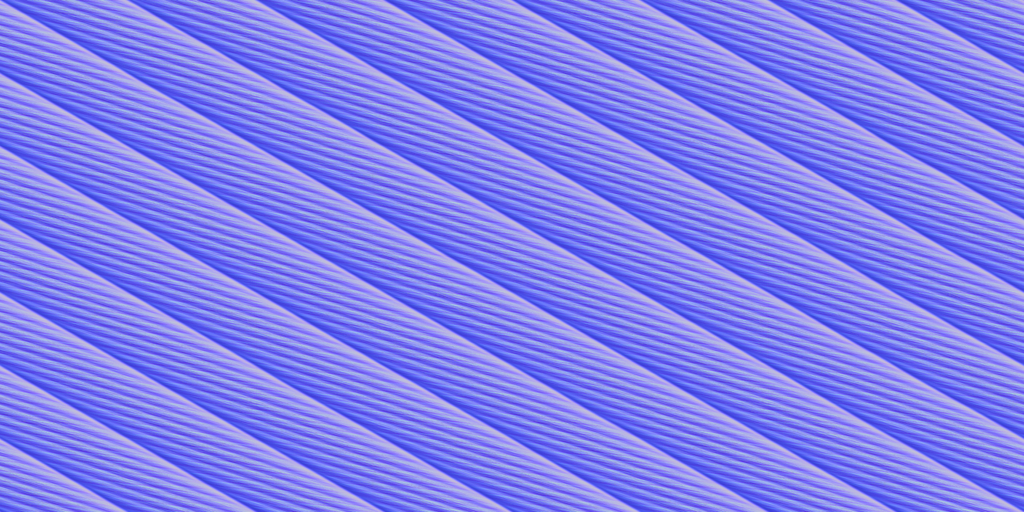
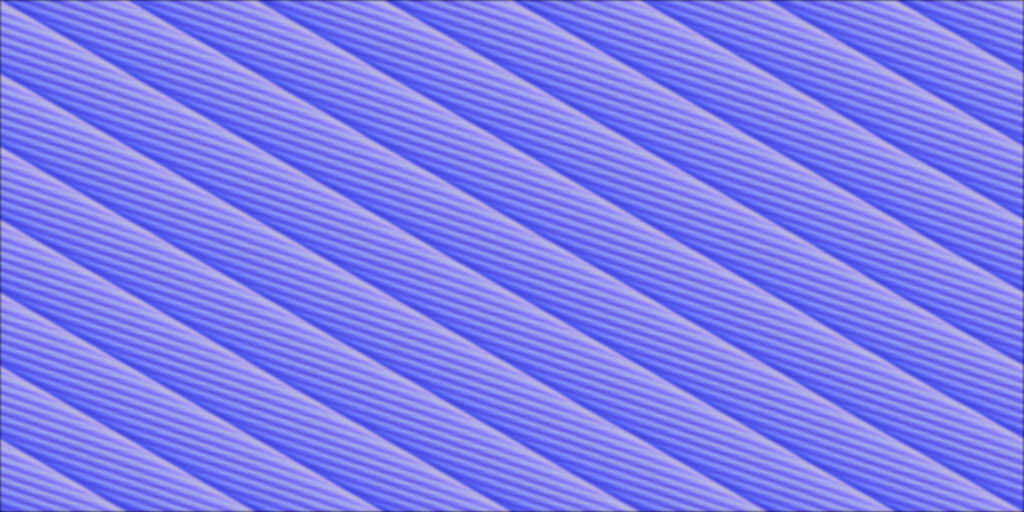
Rebuild the span rope the way the reference actually does it
Pixel-level measurement of the reference strand settled it: the twist is
TEXTURE on a smooth cylinder, not geometry (his silhouette is clean; our
3-ply geometry aliased into ragged fuzz at 720p), twist pitch is ~3.5
diameters at a shallow ~25 deg (ours was a steep 1.1x screw thread), and
the colour is pale golden straw (ours was dark manila).

- Spans: smooth swept cylinder + procedural diagonal-band twist tile with
  matched crown/groove colours, soft normal map, pitch 3.5 x diameter
- Key light moved to the camera side (the rope was backlit the whole
  time — the main reason it read dark bronze in every earlier version)
- Material rgba (1,1,1,1): MuJoCo's default 0.5 grey multiplier
- Flyaway tamed (fewer/shorter/thinner); Rope001 regraded to blonde

diff --git a/src/mjlab_microduck/robot/tug_of_war.py b/src/mjlab_microduck/robot/tug_of_war.py
@@ -130,11 +130,63 @@ SAG_PER_SLACK = 0.6       # parabola depth per metre of slack
 SAG_MAX = 0.045
 
 
-# Hemp rope PBR maps: ambientCG Rope001 (CC0, https://ambientcg.com/view?id=Rope001),
-# natural twisted fibre — the same look as the reference tug-of-war video.
+# Rope texture. Spans use our procedural twist tile (soft 3-band diagonal
+# helix, colours measured off the reference video's strand); coils use
+# ambientCG Rope001 (CC0, https://ambientcg.com/view?id=Rope001).
 _ROPE_COLOR = _ROBOT_DIR / "assets" / "rope_hemp_color.png"
 _ROPE_NORMAL = _ROBOT_DIR / "assets" / "rope_hemp_normal.png"
 _ROPE_ROUGHNESS = _ROBOT_DIR / "assets" / "rope_hemp_roughness.png"
+_TWIST_CROWN = np.array([0.93, 0.85, 0.66])
+_TWIST_GROOVE = np.array([0.72, 0.62, 0.44])
+
+
+def _twist_texture(size: int = 256, bands: int = 3) -> tuple[bytes, bytes]:
+    """Seamless diagonal-band twist tile + matching normal map.
+
+    On a cylinder's unwrapped UV a helix is a diagonal line; the tile repeats
+    `bands` soft ridges on the 45-degree diagonal so the rope reads as long-
+    pitch twisted strands, with clean silky shading (no fibre speckle —
+    minification noise was what made previous versions look ragged)."""
+    yy, xx = np.mgrid[0:size, 0:size].astype(np.float64)
+    phase = ((xx + yy) / size * bands) % 1.0
+    ridge = 0.5 + 0.5 * np.cos(2.0 * np.pi * phase)          # 1 crown, 0 groove
+    shade = 0.87 + 0.13 * ridge                              # gentle contrast
+    fibre = 0.015 * np.sin(xx * 0.9) + 0.01 * np.sin(yy * 2.3 + xx * 0.2)
+    shade = np.clip(shade + fibre, 0, 1)
+    rgb = shade[..., None] * (_TWIST_GROOVE + (_TWIST_CROWN - _TWIST_GROOVE) * ridge[..., None])
+    rgb = np.clip(rgb * 255, 0, 255).astype(np.uint8)
+
+    eps = 1.0 / size
+    dhdx = (np.roll(ridge, -1, 1) - np.roll(ridge, 1, 1)) / (2 * eps)
+    dhdy = (np.roll(ridge, -1, 0) - np.roll(ridge, 1, 0)) / (2 * eps)
+    strength = 0.002
+    nx, ny = -dhdx * strength, -dhdy * strength
+    nz = np.ones_like(nx)
+    norm = np.sqrt(nx**2 + ny**2 + nz**2)
+    nrm = np.stack([(nx / norm + 1) / 2, (ny / norm + 1) / 2, (nz / norm + 1) / 2], axis=-1)
+    return rgb.tobytes(), (nrm * 255).astype(np.uint8).tobytes()
+
+
+def _add_twist_material(spec: mujoco.MjSpec) -> None:
+    rgb, normal = _twist_texture()
+    tex = spec.add_texture(name="tug_twist_tex")
+    tex.type = mujoco.mjtTexture.mjTEXTURE_2D
+    tex.width, tex.height, tex.nchannel = 256, 256, 3
+    tex.data = rgb
+    ntex = spec.add_texture(name="tug_twist_nrm")
+    ntex.type = mujoco.mjtTexture.mjTEXTURE_2D
+    ntex.width, ntex.height, ntex.nchannel = 256, 256, 3
+    ntex.data = normal
+    mat = spec.add_material(name="tug_twist")
+    mat.rgba = (1.0, 1.0, 1.0, 1.0)   # MuJoCo's default 0.5 grey halves the texture
+    mat.textures[mujoco.mjtTextureRole.mjTEXROLE_RGB] = "tug_twist_tex"
+    mat.textures[mujoco.mjtTextureRole.mjTEXROLE_NORMAL] = "tug_twist_nrm"
+    mat.texrepeat = (1.0, 1.0)
+    mat.texuniform = False
+    mat.specular = 0.6
+    mat.shininess = 0.6
+
+
 
 
 def _add_hemp_material(spec: mujoco.MjSpec) -> None:
@@ -145,10 +197,11 @@ def _add_hemp_material(spec: mujoco.MjSpec) -> None:
         tex.type = mujoco.mjtTexture.mjTEXTURE_2D
         tex.file = str(path)
     mat = spec.add_material(name="tug_hemp")
+    mat.rgba = (1.0, 1.0, 1.0, 1.0)   # MuJoCo's default 0.5 grey halves the texture
     mat.textures[mujoco.mjtTextureRole.mjTEXROLE_RGB] = "tug_hemp_tex"
     mat.textures[mujoco.mjtTextureRole.mjTEXROLE_NORMAL] = "tug_hemp_nrm"
     mat.textures[mujoco.mjtTextureRole.mjTEXROLE_ROUGHNESS] = "tug_hemp_rgh"
-    mat.texrepeat = (12.0, 1.0)
+    mat.texrepeat = (8.0, 1.0)
     mat.texuniform = True
     mat.specular = 0.35
     mat.shininess = 0.4
@@ -275,12 +328,12 @@ def _twisted_tube_mesh(spec: mujoco.MjSpec, name: str,
         yarn_center = ply_center + yarn_center_r * (np.cos(psi) * u2 + np.sin(psi) * np.cross(tangent, u2))
         out_dir = u2 * 0.7 + w * rng.uniform(-0.5, 0.5) + tangent * rng.uniform(-0.4, 0.4)
         out_dir /= np.linalg.norm(out_dir)
-        length = rng.uniform(0.002, 0.005)
+        length = rng.uniform(0.0015, 0.003)
         root = yarn_center + yarn_tube_r * out_dir
         mid = root + out_dir * length * 0.6 + tangent * rng.uniform(-0.001, 0.001)
         tip = root + out_dir * length
         base = len(verts)
-        for point, radius in ((root, 0.00035), (mid, 0.00022), (tip, 0.00006)):
+        for point, radius in ((root, 0.00025), (mid, 0.00015), (tip, 0.00005)):
             side = np.cross(out_dir, tangent)
             n_side = np.linalg.norm(side)
             side = side / n_side if n_side > 1e-9 else u
@@ -391,6 +444,47 @@ def _local_span_curve(chord: float, sag: float) -> np.ndarray:
     return points
 
 
+SPAN_RADIUS = 0.008
+SPAN_SMOOTH_ALPHA = 16
+
+
+def _sweep_smooth(points: np.ndarray) -> tuple[np.ndarray, np.ndarray, np.ndarray, np.ndarray]:
+    """Smooth cylinder swept along `points` (clean silhouette — the
+    reference rope's twist is texture, not geometry; a 3-ply silhouette
+    aliases into ragged fuzz at video resolution). (verts, normals, uvs, faces)"""
+    n = len(points)
+    tangents = np.gradient(points, axis=0)
+    tangents /= np.linalg.norm(tangents, axis=1, keepdims=True)
+    ref = np.tile(np.array([0.0, 0.0, 1.0]), (n, 1))
+    flip = np.abs((tangents * ref).sum(axis=1)) > 0.9
+    ref[flip] = np.array([1.0, 0.0, 0.0])
+    u = ref - (ref * tangents).sum(axis=1, keepdims=True) * tangents
+    u /= np.linalg.norm(u, axis=1, keepdims=True)
+    w = np.cross(tangents, u)
+    alphas = 2.0 * np.pi * np.arange(SPAN_SMOOTH_ALPHA) / SPAN_SMOOTH_ALPHA
+    cos_a = np.cos(alphas)[None, :, None]
+    sin_a = np.sin(alphas)[None, :, None]
+    normals = cos_a * u[:, None, :] + sin_a * w[:, None, :]      # (n, A, 3)
+    verts = points[:, None, :] + SPAN_RADIUS * normals
+    verts = verts.reshape(-1, 3)
+    normals = normals.reshape(-1, 3)
+    uvs = np.zeros((n * SPAN_SMOOTH_ALPHA, 2))
+    t_frac = np.linspace(0.0, 1.0, n)
+    uvs[:, 0] = np.repeat(t_frac, SPAN_SMOOTH_ALPHA)
+    uvs[:, 1] = np.tile(alphas / (2.0 * np.pi), n)
+    faces = []
+    for i in range(n - 1):
+        for j in range(SPAN_SMOOTH_ALPHA):
+            j2 = (j + 1) % SPAN_SMOOTH_ALPHA
+            a = i * SPAN_SMOOTH_ALPHA + j
+            b = (i + 1) * SPAN_SMOOTH_ALPHA + j
+            c = (i + 1) * SPAN_SMOOTH_ALPHA + j2
+            d = i * SPAN_SMOOTH_ALPHA + j2
+            faces.append((a, b, c))
+            faces.append((a, c, d))
+    return verts, normals, uvs, np.array(faces, dtype=np.int32)
+
+
 def _sweep_twisted(points: np.ndarray, twists: float) -> tuple[np.ndarray, np.ndarray, np.ndarray]:
     """3-ply twisted tube swept along `points`: (verts, normals, faces);
     topology/UVs are constant for a given resolution."""
@@ -469,16 +563,16 @@ def _add_tug_lighting(spec: mujoco.MjSpec) -> None:
     spec.visual.quality.shadowsize = 4096
     spec.worldbody.add_light(
         name="tug_key",
-        pos=(0.0, -1.5, 2.0),
-        dir=(0.0, 0.55, -0.84),
+        pos=(0.0, 1.8, 2.0),
+        dir=(0.0, -0.62, -0.78),
         type=mujoco.mjtLightType.mjLIGHT_DIRECTIONAL,
         diffuse=(0.9, 0.82, 0.68),
         specular=(0.5, 0.45, 0.35),
     )
     spec.worldbody.add_light(
         name="tug_fill",
-        pos=(0.0, 1.5, 1.0),
-        dir=(0.0, -0.55, -0.84),
+        pos=(0.0, -1.5, 1.0),
+        dir=(0.0, 0.55, -0.84),
         type=mujoco.mjtLightType.mjLIGHT_DIRECTIONAL,
         diffuse=(0.25, 0.30, 0.38),
         specular=(0.1, 0.12, 0.15),
@@ -486,18 +580,19 @@ def _add_tug_lighting(spec: mujoco.MjSpec) -> None:
 
 
 def _build_span_variants(spec: mujoco.MjSpec) -> None:
-    uvs = span_uvs().flatten()
+    _add_twist_material(spec)
     for ci, chord in enumerate(CHORD_BINS):
         for si, sag_frac in enumerate(SAG_BINS):
             sag = sag_frac * SAG_MAX
             points = _local_span_curve(float(chord), sag)
-            twists = 2.5 * float(chord) / 0.05
-            verts, normals, faces = _sweep_twisted(points, twists)
+            verts, normals, uvs, faces = _sweep_smooth(points)
+            # Twist pitch ≈ 3.5 rope diameters, measured off the reference.
+            uvs[:, 0] *= float(chord) / (3.5 * 2.0 * SPAN_RADIUS)
             mesh = spec.add_mesh(name=f"tug_var_{ci}_{si}")
             mesh.uservert = verts.flatten().astype(np.float32)
             mesh.usernormal = normals.flatten().astype(np.float32)
             mesh.userface = faces.flatten()
-            mesh.usertexcoord = uvs
+            mesh.usertexcoord = uvs.flatten().astype(np.float32)
 
 
 def update_rope_visuals(model: mujoco.MjModel, data: mujoco.MjData,
@@ -595,7 +690,7 @@ def build_tug_spec(n_per_team: int = 5, spacing: float = DUCK_SPACING,
     _twisted_tube_mesh(parent, "tug_wrap", _wrap_path(np.random.default_rng(20260914)),
                        t_segments=66, alpha_segments=6,
                        twists=WRAP_TURNS * ROPE_PLY_TWISTS_PER_TURN, uv_repeats=14.0,
-                       sub_fibers=5, flyaway=260)
+                       sub_fibers=5, flyaway=110)
     _add_waist_wraps(parent, n_per_team)
     _build_span_variants(parent)
     n_strands = 2 * n_per_team - 1
@@ -605,7 +700,7 @@ def build_tug_spec(n_per_team: int = 5, spacing: float = DUCK_SPACING,
             name=f"tug_span_{idx}",
             type=mujoco.mjtGeom.mjGEOM_MESH,
             meshname="tug_var_5_1",
-            material="tug_hemp",
+            material="tug_twist",
             contype=0,
             conaffinity=0,
         )
